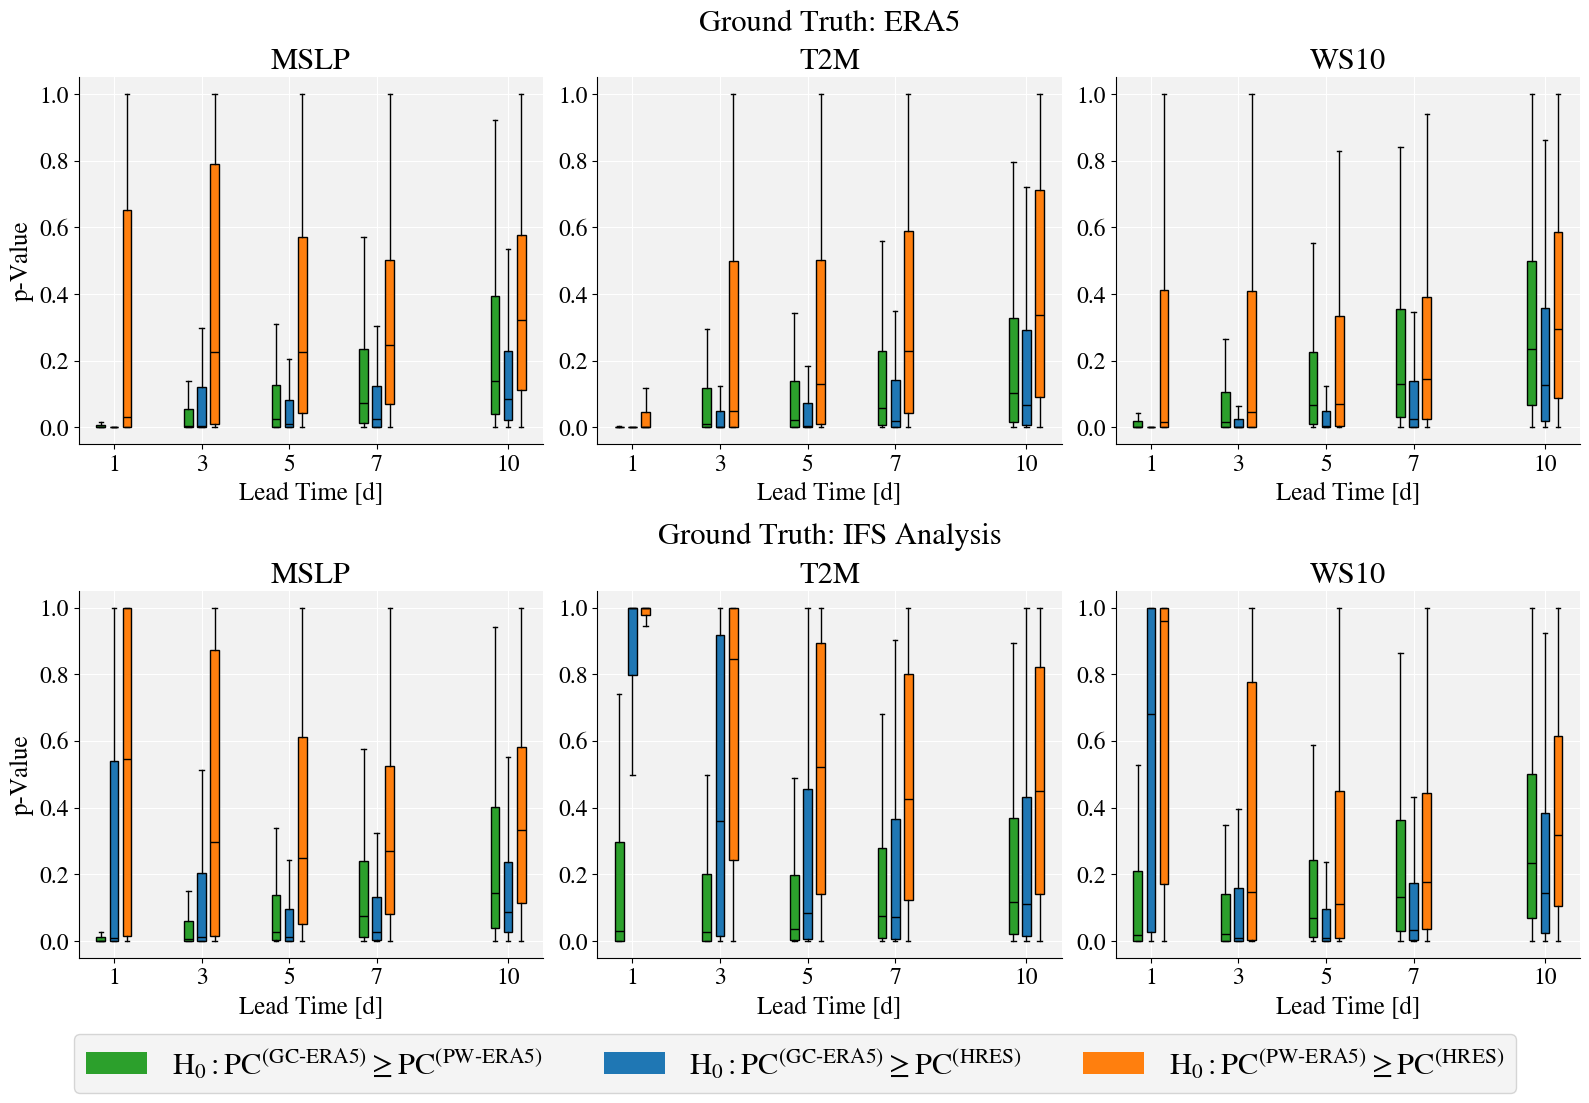
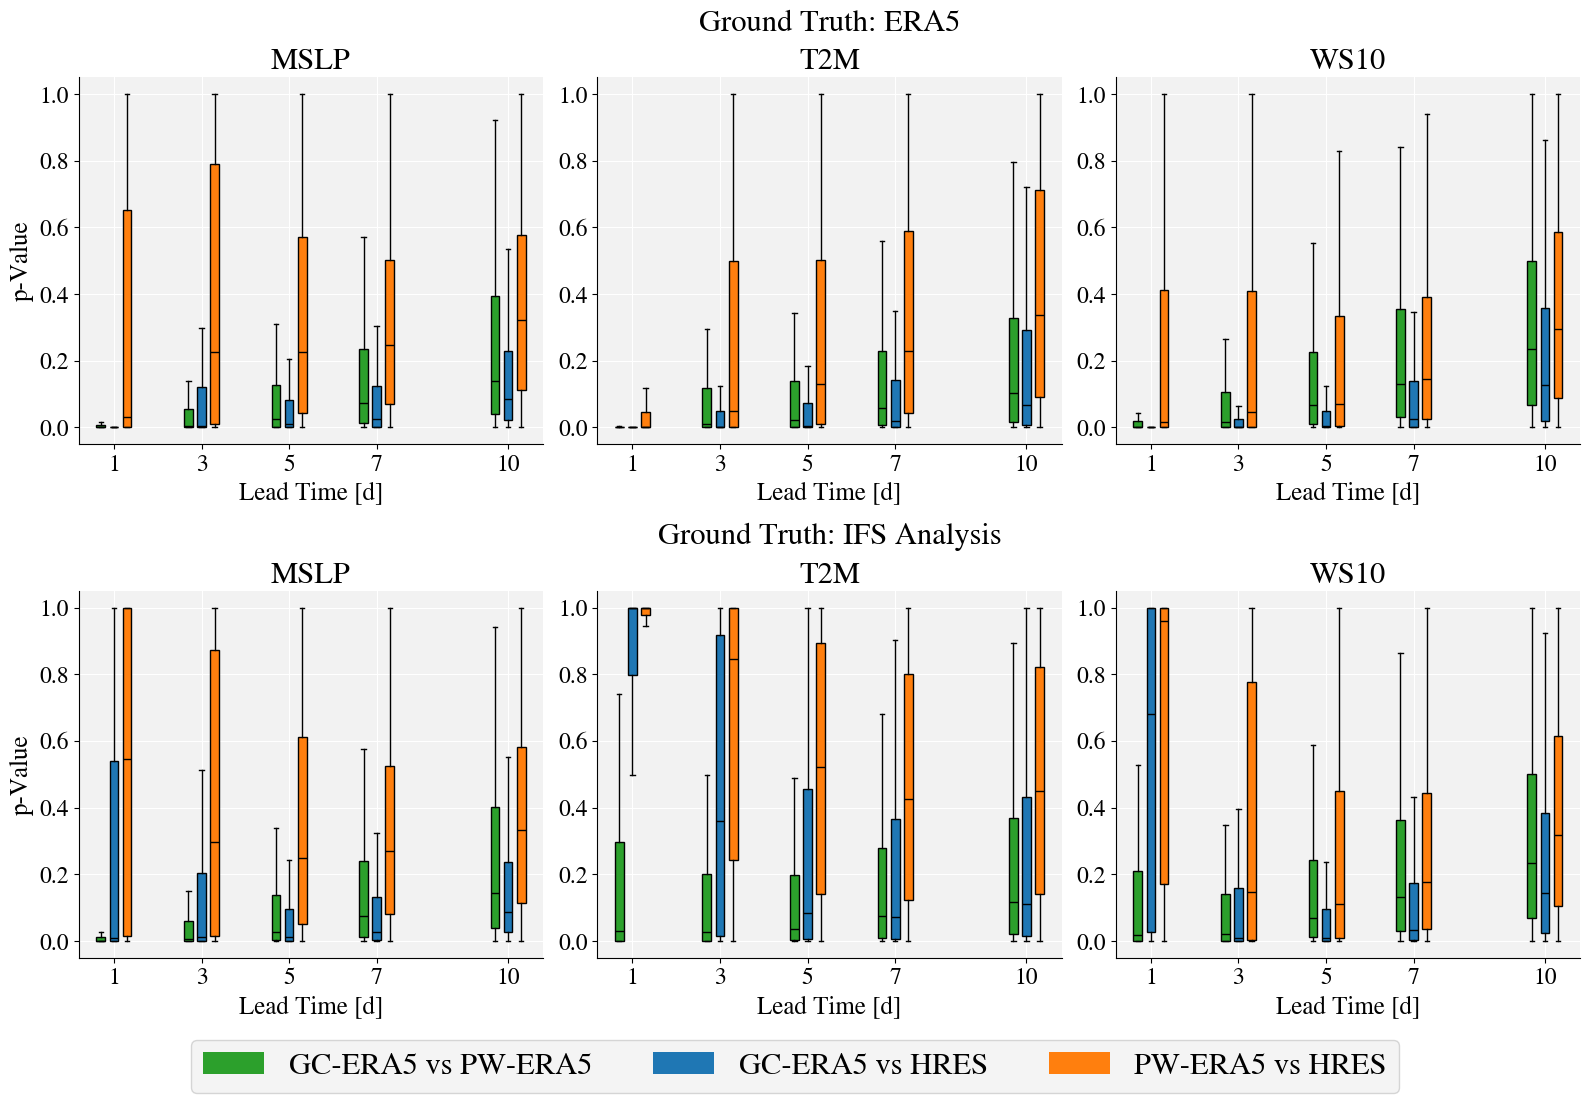
save tracked edits

Changed region(s): [[0.0308, 0.9248, 0.9559, 0.9864]]

diff --git a/wb2/create_plots.py b/wb2/create_plots.py
@@ -148,7 +148,8 @@ for ax, var, title, unit in zip(axes[0, :], variables[:-1], titles[:-1], units[:
             era5_pc0_spatial_avg.sel(prediction_timedelta=lead_times)[var],
             label='ERA5 $\\text{PC}^{(0)}$', color='tab:red')
     ax.plot(lead_time_days,
-            era5_climatology_vs_era5_results_spatial_avg.sel(metric='pc')[var], color='tab:brown')
+            era5_climatology_vs_era5_results_spatial_avg.sel(metric='pc')[var],
+            label='ERA5 Climatology', color='tab:brown')
     ax.plot(lead_time_days,
             ifs_hres_vs_era5_results_spatial_avg.sel(metric='pc')[var], color='tab:blue')
     ax.plot(lead_time_days,
@@ -168,9 +169,6 @@ for ax, var, title, unit in zip(axes[1, :], variables[:-1], titles[:-1], units[:
     ax.plot(lead_time_days,
             ifs_analysis_pc0_spatial_avg.sel(prediction_timedelta=lead_times)[var],
             label='IFS Analysis $\\text{PC}^{(0)}$', color='tab:purple')
-    ax.plot(lead_time_days,
-            era5_climatology_vs_ifs_analysis_results_spatial_avg.sel(metric='pc')[var],
-            label='ERA5 Climatology', color='tab:brown')
     ax.plot(lead_time_days,
             ifs_hres_vs_ifs_analysis_results_spatial_avg.sel(metric='pc')[var],
             label='HRES', color='tab:blue')
@@ -221,13 +219,90 @@ for h, l in zip(handles_upper, labels_upper):
 for h, l in zip(handles_lower, labels_lower):
     combined_legend[l] = h
 
-combined_handles = list(combined_legend.values())
-combined_labels = list(combined_legend.keys())
+legend_order = [
+    'ERA5 $\\text{PC}^{(0)}$',
+    'IFS Analysis $\\text{PC}^{(0)}$',
+    'ERA5 Climatology',
+    'HRES',
+    'PW-ERA5',
+    'GC-ERA5',
+    'FuXi-ERA5'
+]
 
-fig.legend(combined_handles, combined_labels, loc='lower center', ncol=6, 
+# pick out handles in that order (skipping any that aren’t present)
+ordered_handles = [combined_legend[label] for label in legend_order if label in combined_legend]
+ordered_labels  = [label for label in legend_order if label in combined_legend]
+
+fig.legend(ordered_handles, ordered_labels, loc='lower center', ncol=6, 
            bbox_to_anchor=(0.5, -0.075), fontsize=20, columnspacing=1.5)
 
 plt.savefig('plots/lineplot_lat_mean_pc.png', facecolor='white', edgecolor='none', bbox_inches='tight')
+
+# ----------- Map plot for Skill of GraphCast with ERA5 as ground truth. ------------------ #
+# Create a meshgrid for plotting
+skill = (era5_climatology_vs_era5_results.sel(metric='pc') - graphcast_vs_era5_results.sel(metric='pc')) / era5_climatology_vs_era5_results.sel(metric='pc')
+
+vmin = min([skill[var].min() for var in variables[:-1]])
+
+n_colors = 256
+# fraction of the range that is negative:
+frac_neg = -vmin / (1.0 - vmin)
+# number of discrete colors for negative side
+n_neg = int(np.round(frac_neg * n_colors))
+n_neg = np.clip(n_neg, 1, n_colors-1)
+
+neg_cmap = plt.cm.OrRd(np.linspace(0, 1, n_neg))      # reversed Reds: red→light
+pos_cmap = plt.cm.viridis(np.linspace(0, 1, n_colors - n_neg))
+combined_cmap = np.vstack([neg_cmap, pos_cmap])
+
+cmap = mcolors.ListedColormap(combined_cmap)
+norm = mcolors.Normalize(vmin=vmin, vmax=1)
+
+lon = era5_pc0['longitude'].values
+lat = era5_pc0['latitude'].values
+lon_grid, lat_grid = np.meshgrid(lon, lat)
+
+n_rows = len(lead_times)
+n_cols = len(variables[:-1])
+
+# Create a grid of subplots with one row per lead time and one column per variable
+fig, axes = plt.subplots(n_rows, n_cols, figsize=(n_cols * 6, n_rows * 4), subplot_kw={'projection': ccrs.Robinson()}, constrained_layout=True)
+
+for i, lt in enumerate(lead_times):
+    # Convert lead time to days for the row label
+    lt_days = int(lt / np.timedelta64(1, 'D'))
+    
+    for j, (var, var_title) in enumerate(zip(variables[:-1], titles[:-1])):
+        ax = axes[i, j]
+        ax.coastlines()
+        
+        # Select the data for the variable at the given lead time
+        data = skill.sel(prediction_timedelta=lt)[var]
+        
+        # Plot the data
+        mesh = ax.pcolormesh(lon_grid, lat_grid, data.T, cmap=cmap, norm=norm, transform=ccrs.PlateCarree(), linewidth=0.5)
+        
+        # Every subplot gets its variable title on top
+        ax.set_title(var_title, fontsize=24)
+        
+        # If this is the bottom row, add an x-axis label and the colorbar
+        if i == n_rows - 1:
+            ax.set_xlabel('Longitude')
+            cbar = plt.colorbar(mesh, ax=ax, orientation='horizontal', shrink=0.75, pad=0.1)
+            cbar.ax.tick_params(labelsize=18)
+            cbar.set_label('$\\text{Skill}^{(\\text{GC-ERA5})}$', fontsize=22)
+    
+    # Annotate the left-most subplot of the current row with the lead time information.
+    axes[i, 0].annotate(
+        f"Lead Time: {lt_days} day" if i==0 else f"Lead Time: {lt_days} days",
+        fontsize=22,
+        xy=(-0.1, 0.5), 
+        xycoords='axes fraction',
+        rotation=90, 
+        va='center'
+    )
+
+plt.savefig('plots/maps_graphcast_vs_era5_skill.png', facecolor='white', edgecolor='none', bbox_inches='tight')
 
 # ----------- Map plot for PCS of GraphCast with ERA5 as ground truth. ------------------ #
 # Create a meshgrid for plotting
@@ -681,9 +756,9 @@ fig.text(row2_center_x, row2_top + 0.04, "Ground Truth: IFS Analysis",
 
 # Shared legend
 legend_handles = [
-    Patch(facecolor='tab:green', label='$\\text{H}_0: \\text{PC}^{(\\text{GC-ERA5})} \geq \\text{PC}^{(\\text{PW-ERA5})}$'),
-    Patch(facecolor='tab:blue', label='$\\text{H}_0: \\text{PC}^{(\\text{GC-ERA5})} \geq \\text{PC}^{(\\text{HRES})}$'),
-    Patch(facecolor='tab:orange', label='$\\text{H}_0: \\text{PC}^{(\\text{PW-ERA5})} \geq \\text{PC}^{(\\text{HRES})}$')
+    Patch(facecolor='tab:green', label='GC-ERA5 vs PW-ERA5'),
+    Patch(facecolor='tab:blue', label='GC-ERA5 vs HRES'),
+    Patch(facecolor='tab:orange', label='PW-ERA5 vs HRES')
 ]
 
 fig.legend(handles=legend_handles, loc='lower center', ncol=3, bbox_to_anchor=(0.5, -0.075), fontsize=22)
